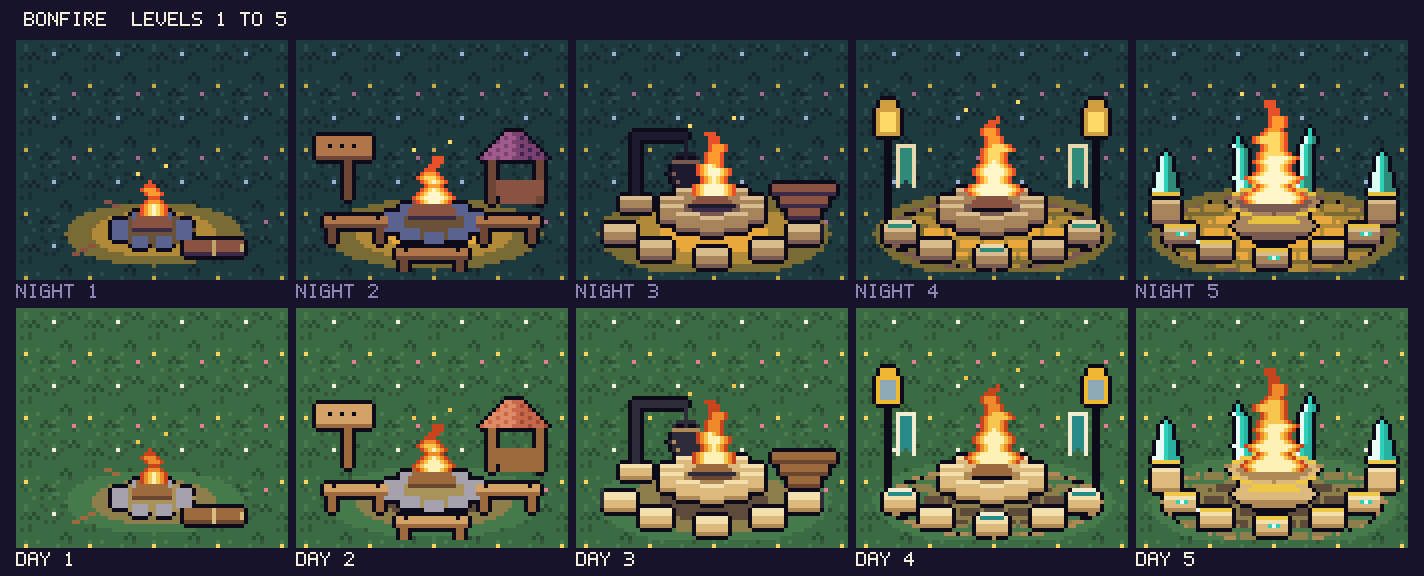
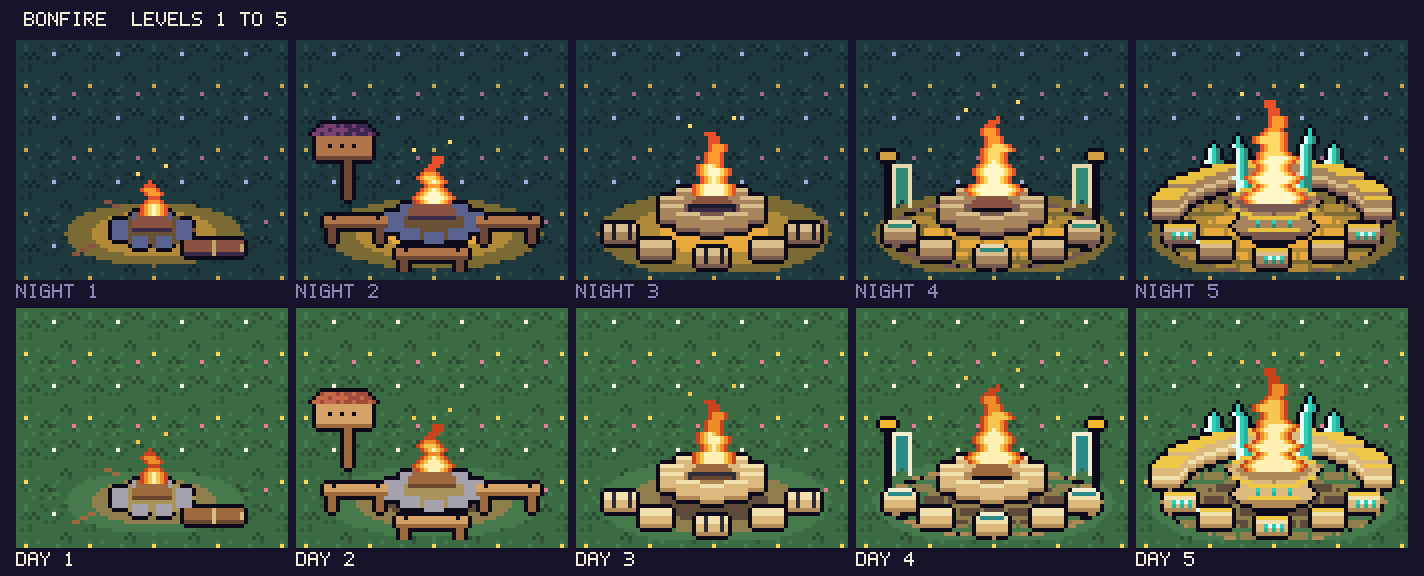
Redo the Bonfire levels 2-5 after Misa's review
Claude-Session: https://claude.ai/code/session_01TqJ8tUAM4Muj4eb7wE4uc8

diff --git a/apps/activity/src/sprites/concepts/valley-levels-bonfire.ts b/apps/activity/src/sprites/concepts/valley-levels-bonfire.ts
@@ -258,7 +258,7 @@ function shingleRoof(g: Grid, x: number, y: number, w: number, rows: number): vo
     // one light from the upper left, like the posts: the left half of the roof is the lit plane
     paint(g, rectPts(x + inset, y + r, w - 2 * inset, 1), (px) => {
       const tick = (px + r * 2) % 4 === 0;
-      return px < x + w / 2 ? (tick ? 's' : 'h') : tick ? 'S' : 's';
+      return px < x + w / 2 ? (tick ? 'S' : 's') : tick ? 's' : 'S';
     });
   }
 }
@@ -266,19 +266,12 @@ function shingleRoof(g: Grid, x: number, y: number, w: number, rows: number): vo
 const L2 = build(
   (g) => {
     glow(g, 32, 46, 27, 9);
-    // wood store at the back right: two posts, a shingle roof, a stack of logs
-    for (const px of [46, 58]) paint(g, rectPts(px, 28, 2, 11), 'P');
-    for (let r = 0; r < 3; r++) {
-      for (let i = 0; i < 4 - (r > 1 ? 1 : 0); i++) {
-        const lx = 48 + i * 3 + (r === 2 ? 1 : 0);
-        paint(g, rectPts(lx, 33 + r * 2, 3, 2), 'v', false);
-      }
-    }
-    shingleRoof(g, 44, 21, 17, 7);
     // a plank sign on a post, back left
     paint(g, rectPts(10, 28, 2, 10), 'P');
     paint(g, rectPts(3, 22, 14, 6), (_x, y) => (y === 27 ? 'P' : 'p'));
     for (const sx of [6, 9, 12]) put(g, sx, 24, 'k');
+    // a small shingled cap over the sign
+    shingleRoof(g, 2, 19, 16, 3);
     // fire ring
     paint(g, ellPts(32, 43, 12, 4.5), 'e', false);
     const rock = (x: number, y: number): void => paint(g, rectPts(x - 2, y - 1, 5, 3), 't');
@@ -296,7 +289,6 @@ const L2 = build(
     tierPalette(2, {
       p: 'plank',
       P: 'plankShade',
-      h: 'shingleLight',
       s: 'shingle',
       S: 'shingleShade',
     }),
@@ -317,35 +309,23 @@ function stonePit(g: Grid, fireTop: (g: Grid) => void): void {
 const L3 = build(
   (g) => {
     glow(g, 32, 46, 29, 11);
-    // firewood pile at the back right
-    for (let r = 0; r < 3; r++) {
-      for (let i = 0; i < 4 - r; i++) {
-        paint(g, rectPts(47 + i * 4 + r * 2, 34 + r * 3, 4, 3), (_x, y) =>
-          y === 36 + r * 3 ? 'w' : 'v',
-        );
-      }
-    }
-    // iron crane at the back left with a hanging cauldron
-    block(g, 9, 37, 8, 4, 'T', 'L', 'S');
-    paint(g, rectPts(12, 21, 2, 16), 'i');
-    paint(g, rectPts(12, 21, 14, 2), 'i');
-    for (let y = 23; y < 28; y++) put(g, 25, y, 'i');
-    paint(g, ellPts(25, 31, 4, 3.5), 'i');
-    for (let x = 22; x <= 28; x++) put(g, x, 28, 'S');
-    put(g, 22, 31, 'S');
-    put(g, 23, 33, 'S');
-    // a bail handle over the pot
-    for (const x of [22, 28]) put(g, x, 27, 'i');
-    for (let x = 23; x <= 27; x++) put(g, x, 26, 'i');
     stonePit(g, (gg) => {
       fireLogs(gg, 32, 36, 10);
       flame(gg, 32, 36, 16, 9);
-      // iron grate bar over the logs
+      // an iron grate over the logs: two bars on short legs
+      for (const x of [26, 37]) paint(gg, rectPts(x, 39, 1, 3), 'i', false);
       paint(gg, rectPts(26, 39, 12, 1), 'i', false);
     });
     arcBench(g, 32, 43, 25, 9, () => 'L');
-    // iron bands on the benches' ends
-    for (const bx of [4, 59]) paint(g, rectPts(bx, 44, 1, 4), 'i', false);
+    // black iron bands across each slab seat
+    for (const [bx, by] of [
+      [9, 46],
+      [32, 52],
+      [55, 46],
+    ] as const) {
+      paint(g, rectPts(bx - 2, by - 2, 1, 4), 'i', false);
+      paint(g, rectPts(bx + 2, by - 2, 1, 4), 'i', false);
+    }
   },
   [
     tierPalette(1, { v: 'log', w: 'logShade' }),
@@ -355,19 +335,16 @@ const L3 = build(
 );
 
 // ---- Level 4: Valley ----------------------------------------------------------------------------------------
-function lampPost(g: Grid, x: number): void {
-  paint(g, rectPts(x - 1, 22, 2, 22), 'k', false);
-  paint(g, rectPts(x - 3, 15, 6, 7), (px, py) =>
-    py === 15 || py === 21 || px === x - 3 || px === x + 2 ? 'b' : 'G',
-  );
-  paint(g, rectPts(x - 2, 13, 4, 2), 'b');
-  // a banner hung from the post, teal with a cream edge and a swallow tail
-  const x0 = x < 32 ? x + 2 : x - 7;
+function bannerPole(g: Grid, x: number): void {
+  paint(g, rectPts(x - 1, 28, 2, 16), 'k', false);
+  paint(g, rectPts(x - 2, 26, 4, 2), 'b');
+  // a banner hung from the pole, teal with a cream edge and a swallow tail
+  const x0 = x < 32 ? x + 1 : x - 6;
   for (let j = 0; j < 11; j++) {
     for (let i = 0; i < 5; i++) {
       if (j >= 9 && i === 2) continue;
       if (j === 10 && i !== 0 && i !== 4) continue;
-      put(g, x0 + i, 24 + j, i === 0 || i === 4 || j === 0 ? 'm' : 't');
+      put(g, x0 + i, 29 + j, i === 0 || i === 4 || j === 0 ? 'm' : 't');
     }
   }
 }
@@ -376,8 +353,8 @@ const L4 = build(
   (g) => {
     glow(g, 32, 46, 30, 11);
     paving(g, 32, 46, 27, 9, 25);
-    lampPost(g, 6);
-    lampPost(g, 58);
+    bannerPole(g, 6);
+    bannerPole(g, 58);
     stonePit(g, (gg) => {
       fireLogs(gg, 32, 36, 10, 'k');
       flame(gg, 32, 36, 20, 11);
@@ -397,7 +374,7 @@ const L4 = build(
     tierPalette(3, { T: 'stone', S: 'stoneShade', L: 'stoneLight' }),
     tierPalette(4, { t: 'teal', m: 'cream', b: 'brass' }),
   ],
-  { night: { G: '#ffd966' }, day: { G: '#8fa8b8' } },
+  none,
 );
 
 // ---- Level 5: Crystal ---------------------------------------------------------------------------------------
@@ -415,10 +392,20 @@ function shard(g: Grid, x: number, by: number, h: number, w: number, lean: numbe
   });
 }
 
-function crystalPost(g: Grid, x: number): void {
-  paint(g, rectPts(x - 3, 38, 7, 6), (_x, py) => (py === 38 ? 'L' : py === 43 ? 'S' : 'T'));
-  paint(g, rectPts(x - 3, 36, 7, 1), 'g');
-  shard(g, x, 35, 10, 5, 0);
+/** A low curved wall of sandstone blocks behind the hearth, gold coping on top, a crystal at each shoulder. */
+function backWall(g: Grid): void {
+  const pts: Pt[] = [];
+  for (let deg = 188; deg <= 352; deg += 8) {
+    const a = (deg * Math.PI) / 180;
+    pts.push([Math.round(32 + 27 * Math.cos(a)), Math.round(41 + 11 * Math.sin(a))]);
+  }
+  pts.sort((p, q) => p[1] - q[1]);
+  for (const [x, y] of pts) {
+    paint(g, rectPts(x - 3, y - 2, 7, 6), (_px, py) =>
+      py === y - 2 ? 'g' : py === y + 3 ? 'S' : py === y + 1 ? 'L' : 'T',
+    );
+  }
+  for (const x of [17, 47]) shard(g, x, 28, 5, 3, 0);
 }
 
 const L5 = build(
@@ -434,14 +421,18 @@ const L5 = build(
       put(g, x, y, 'C');
       put(g, x + 1, y, 'l');
     }
-    crystalPost(g, 5);
-    crystalPost(g, 59);
-    // the brazier: stone plinth, gold band, a bowl crowned with crystal
+    backWall(g);
+    // the brazier: stone plinth with gold bands, a bowl set with crystal shards and crowned with two more
     shard(g, 25, 36, 15, 4, -2);
     shard(g, 39, 36, 17, 4, 2);
     paint(g, ellPts(32, 44, 10, 3.5), (_x, py) => (py > 45 ? 'S' : 'T'));
-    paint(g, rectPts(26, 41, 13, 4), (_x, py) => (py === 41 ? 'L' : 'T'));
-    paint(g, rectPts(26, 43, 13, 1), 'g', false);
+    paint(g, rectPts(26, 41, 13, 5), (_x, py) => (py === 41 ? 'L' : 'T'));
+    paint(g, rectPts(26, 42, 13, 1), 'g', false);
+    paint(g, rectPts(26, 45, 13, 1), 'g', false);
+    for (const x of [28, 32, 36]) {
+      put(g, x, 43, 'C');
+      put(g, x, 44, 'D');
+    }
     paint(g, ellPts(32, 38, 11, 4), 'T');
     paint(g, ellPts(32, 38, 9, 3), 'S', false);
     for (let x = 22; x <= 42; x++) {
@@ -457,9 +448,12 @@ const L5 = build(
       [32, 52],
       [55, 46],
     ] as const) {
-      put(g, x - 1, y, 'C');
-      put(g, x, y, 'l');
-      put(g, x + 1, y, 'C');
+      for (const dx of [-2, 0, 2]) {
+        put(g, x + dx, y, 'C');
+        put(g, x + dx, y + 1, 'D');
+      }
+      put(g, x - 1, y, 'l');
+      put(g, x + 1, y, 'l');
     }
   },
   [
@@ -478,16 +472,19 @@ const LEVELS = [
   { l: L1, note: 'A small campfire in a loose ring of fieldstones, a log to sit on, two sticks.' },
   {
     l: L2,
-    note: 'A fire ring with sawn plank benches, a plank sign and a shingle-roofed wood store.',
+    note: 'A fire ring with sawn plank benches and a plank sign under a small shingled cap (no store).',
   },
-  { l: L3, note: 'A dressed-stone pit, curved stone bench, black iron grate and cauldron crane.' },
+  {
+    l: L3,
+    note: 'A dressed-stone pit, curved stone slab seats with iron bands, a black iron grate (no crane, no woodpile).',
+  },
   {
     l: L4,
-    note: 'The stone pit on a paved floor, teal and cream cushions, brass lamps with banners.',
+    note: 'The stone pit on a paved floor, teal and cream cushions, banners on short poles (no lamps).',
   },
   {
     l: L5,
-    note: 'A crystal-crowned stone brazier with gold trim, gold-edged benches, crystal posts.',
+    note: 'A crystal-set gold-banded brazier, gold-edged crystal-inlaid benches, a curved stone wall behind (no posts).',
   },
 ] as const;
 
@@ -500,10 +497,10 @@ export const VALLEY_LEVELS_BONFIRE_CONCEPTS: ConceptSet = {
   notes: [
     'All five levels are 64x56 with the hearth at the same spot (fire centred on x 32) and the art on one base row; smaller levels leave the top and sides empty. Night is the main palette with the firelight in stepped rings on the ground; alts.day keeps the fire lit.',
     'Level 1 Humble: a small fire in a loose ring of fieldstones on packed earth, one log to sit on (rope lashing, pale cut ends) and two sticks. Seat: (47, 52).',
-    'Level 2 Settled: a neater fire ring, two sawn plank benches and a front bench, a plank sign, and a wood store with the red-brown shingle roof. Seats: (13, 48), (51, 48), (32, 54).',
-    'Level 3 Stone: a pit of dressed grey stone, an arc of five separate dressed-stone slab seats, black iron: a grate over the logs, a crane with a hanging cauldron, bands on the bench ends, and a firewood pile. Seats: (9, 49), (32, 55), (55, 49).',
-    'Level 4 Valley: the stone pit on a paved floor lit by the fire, teal-and-cream cushions on the three seats, brass lamps on posts with teal banners (lamp glass lit at night, plain by day). Seats as level 3.',
-    'Level 5 Crystal: a stone brazier with a gold band and gold rim, crowned with four crystal shards (the crystal glows by day too), crystal posts with gold caps, gold-edged benches with crystal inlay, crystal inlay in the paving. Seats as level 3. The 16-colour limit leaves no room for the level 4 pennants here; the crystal posts replace the lamps.',
+    'Level 2 Settled: a neater fire ring, two sawn plank benches and a front bench, and a plank sign with a small red-brown shingled cap. Seats: (13, 48), (51, 48), (32, 54). Misa 2026-11-11 (Redo): "The store is unnecessary." The wood store is gone; the shingles live on the sign cap.',
+    'Level 3 Stone: a pit of dressed grey stone, an arc of five separate dressed-stone slab seats with black iron bands across them, and a black iron grate on short legs over the logs. Seats: (9, 49), (32, 55), (55, 49). Misa 2026-11-11 (Redo): "Quite crowded. Remove whatever the thing in the top right is (brown funnel looking)." The firewood pile, and the crane and cauldron, are gone.',
+    'Level 4 Valley: the stone pit on a paved floor lit by the fire, teal-and-cream cushions on the three seats, and a teal-and-cream banner on a short pole at each side with a brass cap. Seats as level 3. Misa 2026-11-11 (Redo): "This is really nice but let\'s drop the lamps." The brass lamps are gone; the banners stand on their own poles.',
+    'Level 5 Crystal: a stone brazier with two gold bands and crystal shards set into it and crowning it (the crystal glows by day too), gold-edged stone benches with crystal inlays, crystal inlay in the paving, and a curved low sandstone wall behind the fire with gold coping and a crystal at each shoulder. Seats as level 3. Misa 2026-11-11 (Redo): "Drop the posts and move the gold and crystal motif more strongly into the brazier and benches. Add a curved supporting wall behind the fire." The crystal posts are gone.',
   ],
   ...(VALLEY_GLOW_CONCEPTS.backdrop === undefined
     ? {}

diff --git a/docs/art/README.md b/docs/art/README.md
@@ -239,21 +239,21 @@ Status: **liked** means Misa approved the look; **draft** means he has not said 
 - **Status:** draft
 - **Requested:** 2026-11-09 (Misa): "The campfire could also get better, not just more decorative. Think from a humble campfire to a fire pit with cool stone benches and the sort. Each building can absolutely change building material as it upgrades in levels, and I'm thinking we might even want to tweak the earlier levels to be less elaborate... If you change materials, there needs to be a common motif between buildings of the same level... Think of how Clash of Clans brings a new look with each new town hall level."
 - **Source:** `apps/activity/src/sprites/concepts/valley-levels-bonfire.ts` (draw it with `pnpm art valley-levels-bonfire`)
-- **Sheet of:** `e02943151de8`
+- **Sheet of:** `24cbf08dab9c`
 - All five levels are 64x56 with the hearth at the same spot (fire centred on x 32) and the art on one base row; smaller levels leave the top and sides empty. Night is the main palette with the firelight in stepped rings on the ground; alts.day keeps the fire lit.
 - Level 1 Humble: a small fire in a loose ring of fieldstones on packed earth, one log to sit on (rope lashing, pale cut ends) and two sticks. Seat: (47, 52).
-- Level 2 Settled: a neater fire ring, two sawn plank benches and a front bench, a plank sign, and a wood store with the red-brown shingle roof. Seats: (13, 48), (51, 48), (32, 54).
-- Level 3 Stone: a pit of dressed grey stone, an arc of five separate dressed-stone slab seats, black iron: a grate over the logs, a crane with a hanging cauldron, bands on the bench ends, and a firewood pile. Seats: (9, 49), (32, 55), (55, 49).
-- Level 4 Valley: the stone pit on a paved floor lit by the fire, teal-and-cream cushions on the three seats, brass lamps on posts with teal banners (lamp glass lit at night, plain by day). Seats as level 3.
-- Level 5 Crystal: a stone brazier with a gold band and gold rim, crowned with four crystal shards (the crystal glows by day too), crystal posts with gold caps, gold-edged benches with crystal inlay, crystal inlay in the paving. Seats as level 3. The 16-colour limit leaves no room for the level 4 pennants here; the crystal posts replace the lamps.
+- Level 2 Settled: a neater fire ring, two sawn plank benches and a front bench, and a plank sign with a small red-brown shingled cap. Seats: (13, 48), (51, 48), (32, 54). Misa 2026-11-11 (Redo): "The store is unnecessary." The wood store is gone; the shingles live on the sign cap.
+- Level 3 Stone: a pit of dressed grey stone, an arc of five separate dressed-stone slab seats with black iron bands across them, and a black iron grate on short legs over the logs. Seats: (9, 49), (32, 55), (55, 49). Misa 2026-11-11 (Redo): "Quite crowded. Remove whatever the thing in the top right is (brown funnel looking)." The firewood pile, and the crane and cauldron, are gone.
+- Level 4 Valley: the stone pit on a paved floor lit by the fire, teal-and-cream cushions on the three seats, and a teal-and-cream banner on a short pole at each side with a brass cap. Seats as level 3. Misa 2026-11-11 (Redo): "This is really nice but let's drop the lamps." The brass lamps are gone; the banners stand on their own poles.
+- Level 5 Crystal: a stone brazier with two gold bands and crystal shards set into it and crowning it (the crystal glows by day too), gold-edged stone benches with crystal inlays, crystal inlay in the paving, and a curved low sandstone wall behind the fire with gold coping and a crystal at each shoulder. Seats as level 3. Misa 2026-11-11 (Redo): "Drop the posts and move the gold and crystal motif more strongly into the brazier and benches. Add a curved supporting wall behind the fire." The crystal posts are gone.
 
 | Code | Kind | Role | Status | Idea |
 | --- | --- | --- | --- | --- |
 | `bonfire-1` | free |  | draft | A small campfire in a loose ring of fieldstones, a log to sit on, two sticks. |
-| `bonfire-2` | free |  | draft | A fire ring with sawn plank benches, a plank sign and a shingle-roofed wood store. |
-| `bonfire-3` | free |  | draft | A dressed-stone pit, curved stone bench, black iron grate and cauldron crane. |
-| `bonfire-4` | free |  | draft | The stone pit on a paved floor, teal and cream cushions, brass lamps with banners. |
-| `bonfire-5` | free |  | draft | A crystal-crowned stone brazier with gold trim, gold-edged benches, crystal posts. |
+| `bonfire-2` | free |  | draft | A fire ring with sawn plank benches and a plank sign under a small shingled cap (no store). |
+| `bonfire-3` | free |  | draft | A dressed-stone pit, curved stone slab seats with iron bands, a black iron grate (no crane, no woodpile). |
+| `bonfire-4` | free |  | draft | The stone pit on a paved floor, teal and cream cushions, banners on short poles (no lamps). |
+| `bonfire-5` | free |  | draft | A crystal-set gold-banded brazier, gold-edged crystal-inlaid benches, a curved stone wall behind (no posts). |
 
 <a id="valley-levels-forge"></a>
 
